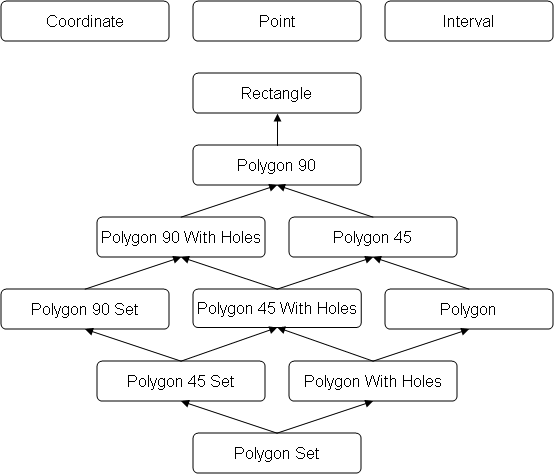
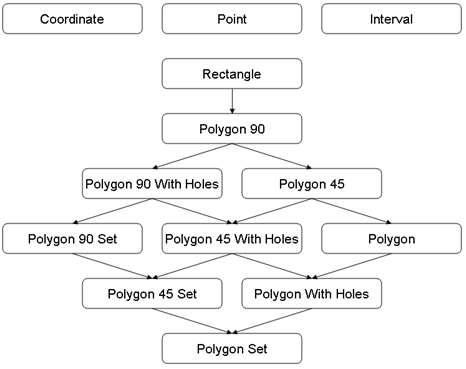
fixed arrow directions in refinements diagram and typo

diff --git a/sandbox/gtl/doc/gtl_design_overview.htm b/sandbox/gtl/doc/gtl_design_overview.htm
@@ -69,7 +69,7 @@ would be used for tag dispatching.&nbsp;&nbsp; These concepts are shown in the
 refinement diagram below.</p>
 
 
-</body><img border="0" src="images/refinements.png" width="554" height="474"><p>
+</body><img border="0" src="images/refinements.png" width="466" height="369"><p>
 The arrows between diagram bubbles show concept refinement relationships.&nbsp; This is 
 similar, but not identical to, inheritance relationships between normal classes.&nbsp; 
 A refinement of a concept narrows down the definition of a more general concept.&nbsp; 
